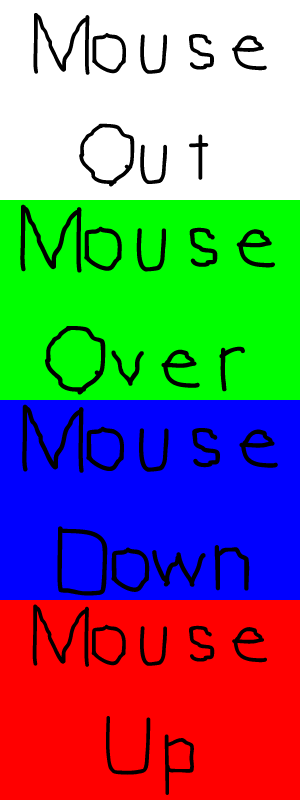
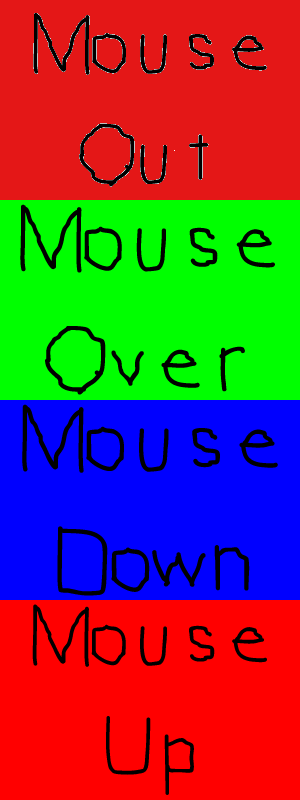
Created a grid of buttons.

Changed region(s): [[0.0, 0.0, 1.0, 0.25]]

diff --git a/Gomoku_Interface/main.cpp b/Gomoku_Interface/main.cpp
@@ -1,9 +1,11 @@
 #include <iostream>
 #include "GameWindow.h"
+#include "Texture.h"
+#include "GridSquare.h"
 #include <vector>
 
-#define GRID_WIDTH  4
-#define GRID_HEIGHT  4
+#define GRID_WIDTH  19
+#define GRID_HEIGHT  19
 #define TOTAL_BUTTONS GRID_HEIGHT*GRID_WIDTH
 
 enum ButtonSprite
@@ -52,11 +54,11 @@ int main(int argc, char* args[])
 {
 	
 	//Start up SDL and create game window
-	GameWindow gw(640, 480);
-
+	GameWindow gw(950, 950);
+	
 	//Load assets
 
-		//Button sprites
+	//Button sprites
 	
 	Texture ButtonSpriteSheet(gw);
 	try
@@ -69,22 +71,31 @@ int main(int argc, char* args[])
 		exit(-1);
 	}
 	//Mouse button sprites
-	SDL_Rect gSpriteClips[BUTTON_SPRITE_TOTAL];
+	SDL_Rect spriteClips[BUTTON_SPRITE_TOTAL];
+	
+	
 
-
+	//Select sprites in sprite sheet
 	for (int i = 0; i < BUTTON_SPRITE_TOTAL; ++i)
 	{
-		gSpriteClips[i].x = 0;
-		gSpriteClips[i].y = i * 200;
-		gSpriteClips[i].w = 200;
-		gSpriteClips[i].h = 200;
+		spriteClips[i].x = 0;
+		spriteClips[i].y = i * 200;
+		spriteClips[i].w = 300;
+		spriteClips[i].h = 200;
 	}
 
+	//All the squares in the grid
+	std::vector<GridSquare> gridSquares;
 	//Set buttons in corners
-	gButtons[0].setPosition(0, 0);
-	gButtons[1].setPosition(gw.width() - BUTTON_WIDTH, 0);
-	gButtons[2].setPosition(0, gw.height() - BUTTON_HEIGHT);
-	gButtons[3].setPosition(gw.width() - BUTTON_WIDTH, gw.height() - BUTTON_HEIGHT);
+	GridSquare gs(gw, gw.height() / GRID_HEIGHT, gw.width() / GRID_WIDTH, BUTTON_SPRITE_TOTAL, ButtonSpriteSheet,spriteClips);
+	for (int i = 0; i < GRID_HEIGHT; i++)
+	{
+		for (int j = 0; j < GRID_WIDTH; j++)
+		{
+			gs.setPosition(gs.width()*j, gs.height()*i);
+			gridSquares.push_back(gs);
+		}
+	}
 
 	//Main loop flag
 	bool quit = false;
@@ -104,25 +115,59 @@ int main(int argc, char* args[])
 				quit = true;
 			}
 
-			//Handle button events
-			for (int i = 0; i < TOTAL_BUTTONS; ++i)
+			//If mouse event happened
+			if (e.type == SDL_MOUSEMOTION || e.type == SDL_MOUSEBUTTONDOWN || e.type == SDL_MOUSEBUTTONUP)
 			{
-				gButtons[i].handleEvent(&e);
+				gw.clear();
+				//Get mouse position
+				int x, y;
+				//Get mouse and account for out of bouds
+				SDL_GetMouseState(&x, &y);
+				
+				printf("x: %d y:%d\n", x, y);
+				//Get button coordinates
+				x /= gridSquares[0].width();
+				y /= gridSquares[0].height();
+				int buttonNr = y * GRID_WIDTH + x;
+				//Set all grid squares to empty
+				for (int i = 0; i < GRID_HEIGHT*GRID_WIDTH; i++)
+				{
+					gridSquares[i].setSprite(0);
+				}
+				if(buttonNr<=360)
+					gridSquares[buttonNr].setSprite(1);
+
+				//Render the grid
+				for (int i = 0; i < GRID_HEIGHT*GRID_WIDTH; i++)
+				{
+					gridSquares[i].render(gw.width()/GRID_WIDTH,gw.height()/GRID_HEIGHT);
+				}
+				/*
+				//Mouse is inside button
+				else
+				{
+					//Set mouse over sprite
+					switch (e.type)
+					{
+					case SDL_MOUSEMOTION:
+						mCurrentSprite = BUTTON_SPRITE_MOUSE_OVER_MOTION;
+						break;
+
+					case SDL_MOUSEBUTTONDOWN:
+						mCurrentSprite = BUTTON_SPRITE_MOUSE_DOWN;
+						break;
+
+					case SDL_MOUSEBUTTONUP:
+						mCurrentSprite = BUTTON_SPRITE_MOUSE_UP;
+						break;
+					}
+				}*/
+
+				gw.update();
 			}
+
 		}
-
-		//Clear screen
-		gw.clear();
-
-		//Render buttons
-		for (int i = 0; i < TOTAL_BUTTONS; ++i)
-		{
-			gButtons[i].render();
-		}
-
-		//Update screen
-		gw.update();
 	}
-
+	
 	return 0;
 }

diff --git a/Gomoku_Interface/GridSquare.cpp b/Gomoku_Interface/GridSquare.cpp
@@ -1,7 +1,7 @@
 #include "GridSquare.h"
+#include "Texture.h"
 
-
-GridSquare::GridSquare(GameWindow &gw, const int buttonHeight, const int buttonWidth,const int nrStates) : game_window(gw), BUTTON_HEIGHT(buttonHeight), BUTTON_WIDTH(buttonWidth),TOTAL_STATES(nrStates)
+GridSquare::GridSquare(GameWindow &gw, const int buttonHeight, const int buttonWidth,const int nrStates,Texture &spriteSheet, SDL_Rect *spriteClips) : game_window(gw), BUTTON_HEIGHT(buttonHeight), BUTTON_WIDTH(buttonWidth),TOTAL_STATES(nrStates),gridsprite(spriteSheet),spriteClips(spriteClips)
 {
 	privPosition.x=0;
 	privPosition.y = 0;
@@ -14,68 +14,24 @@ void GridSquare::setPosition(int x, int y)
 	privPosition.y = y;
 }
 
-void GridSquare::handleEvent(SDL_Event* e)
+int GridSquare::width()
 {
-	//If mouse event happened
-	if (e->type == SDL_MOUSEMOTION || e->type == SDL_MOUSEBUTTONDOWN || e->type == SDL_MOUSEBUTTONUP)
-	{
-		//Get mouse position
-		int x, y;
-		SDL_GetMouseState(&x, &y);
-
-		//Check if mouse is in button
-		bool inside = true;
-
-		//Mouse is left of the button
-		if (x < privPosition.x)
-		{
-			inside = false;
-		}
-		//Mouse is right of the button
-		else if (x > privPosition.x + BUTTON_WIDTH)
-		{
-			inside = false;
-		}
-		//Mouse above the button
-		else if (y < privPosition.y)
-		{
-			inside = false;
-		}
-		//Mouse below the button
-		else if (y > privPosition.y + BUTTON_HEIGHT)
-		{
-			inside = false;
-		}
-
-		//Mouse is outside button
-		if (!inside)
-		{
-			privCurrentSprite = BUTTON_SPRITE_MOUSE_OUT;
-		}
-		//Mouse is inside button
-		else
-		{
-			//Set mouse over sprite
-			switch (e->type)
-			{
-			case SDL_MOUSEMOTION:
-				mCurrentSprite = BUTTON_SPRITE_MOUSE_OVER_MOTION;
-				break;
-
-			case SDL_MOUSEBUTTONDOWN:
-				mCurrentSprite = BUTTON_SPRITE_MOUSE_DOWN;
-				break;
-
-			case SDL_MOUSEBUTTONUP:
-				mCurrentSprite = BUTTON_SPRITE_MOUSE_UP;
-				break;
-			}
-		}
-	}
+	return BUTTON_WIDTH;
 }
 
-void GridSquare::render()
+int GridSquare::height()
+{
+	return BUTTON_HEIGHT;
+}
+
+void GridSquare::setSprite(int n)
+{
+	if(n<TOTAL_STATES)
+		privCurrentSprite = n;
+}
+
+void GridSquare::render(int width,int height)
 {
 	//Show current button sprite
-	//gButtonSpriteSheetTexture.render(mPosition.x, mPosition.y, &gSpriteClips[mCurrentSprite]);
+	gridsprite.render(privPosition.x, privPosition.y, &(spriteClips[privCurrentSprite]),width,height);
 }

diff --git a/Gomoku_Interface/Texture.cpp b/Gomoku_Interface/Texture.cpp
@@ -32,7 +32,11 @@ bool Texture::loadFromFile(std::string path)
 	else
 	{
 		//Color key image
-		SDL_SetColorKey(loadedSurface, SDL_TRUE, SDL_MapRGB(loadedSurface->format, 0, 0xFF, 0xFF));
+		//SDL_SetColorKey(loadedSurface, SDL_TRUE, SDL_MapRGB(loadedSurface->format, 0, 0xFF, 0xFF));
+
+		//Scale image to dimensions
+		
+		//SDL_BlitScaled(gStretchedSurface, NULL, gScreenSurface, &stretchRect);
 
 		//Create texture from surface pixels
 		newTexture = SDL_CreateTextureFromSurface(gameWindow.renderer(), loadedSurface);
@@ -122,7 +126,7 @@ void Texture::setAlpha(Uint8 alpha)
 	SDL_SetTextureAlphaMod(mTexture, alpha);
 }
 
-void Texture::render(int x, int y, SDL_Rect* clip, double angle, SDL_Point* center, SDL_RendererFlip flip)
+void Texture::render(int x, int y, SDL_Rect* clip,int width,int height)
 {
 	//Set rendering space and render to screen
 	SDL_Rect renderQuad = { x, y, privWidth, privHeight };
@@ -130,12 +134,12 @@ void Texture::render(int x, int y, SDL_Rect* clip, double angle, SDL_Point* cent
 	//Set clip rendering dimensions
 	if (clip != NULL)
 	{
-		renderQuad.w = clip->w;
-		renderQuad.h = clip->h;
+		renderQuad.w = width;
+		renderQuad.h = height;
 	}
 
 	//Render to screen
-	SDL_RenderCopyEx(gameWindow.renderer(), mTexture, clip, &renderQuad, angle, center, flip);
+	SDL_RenderCopyEx(gameWindow.renderer(), mTexture, clip, &renderQuad, 0.0, NULL, SDL_FLIP_NONE);
 }
 
 int Texture::getWidth()

diff --git a/Gomoku_Interface/GridSquare.h b/Gomoku_Interface/GridSquare.h
@@ -4,6 +4,8 @@
 #include <stdio.h>
 #include <string>
 #include "GameWindow.h"
+#include "Texture.h"
+
 //The mouse button
 class GridSquare
 {
@@ -11,7 +13,6 @@ class GridSquare
 	//Button constants
 	const int BUTTON_WIDTH;
 	const int BUTTON_HEIGHT;
-	const int TOTAL_BUTTONS=4;
 	const int TOTAL_STATES;
 
 	//Top left position
@@ -23,21 +24,27 @@ class GridSquare
 	//Reference to game window
 	GameWindow &game_window;
 
-	//REference to sprite texture
+	//Reference to sprite texture
 	Texture & gridsprite;
+
+	//Reference to sprite rect
+	SDL_Rect *spriteClips;
 
 public:
 	//Initializes internal variables
-	GridSquare(GameWindow& gw,const int buttonHeight,const int buttonWidth,const int nrStates);
+	GridSquare(GameWindow& gw,const int buttonHeight,const int buttonWidth,const int nrStates,Texture &spriteSheet, SDL_Rect *spriteClips);
 
 	//Sets top left position
 	void setPosition(int x, int y);
 
-	//Handles mouse event
-	void handleEvent(SDL_Event* e);
+	int width();
+	int height();
+
+	//Modify shown sprite
+	void setSprite(int n);
 
 	//Shows button sprite
-	void render();
+	void render(int width,int height);
 
 
 };

diff --git a/Gomoku_Interface/GameWindow.cpp b/Gomoku_Interface/GameWindow.cpp
@@ -30,7 +30,7 @@ GameWindow::GameWindow(int screen_width,int screen_height): SCREEN_HEIGHT(screen
 		{
 			//Create vsynced renderer for window
 			privRenderer = SDL_CreateRenderer(privWindow, -1, SDL_RENDERER_ACCELERATED | SDL_RENDERER_PRESENTVSYNC);
-			if (renderer == NULL)
+			if (privRenderer == NULL)
 			{
 				printf("Renderer could not be created! SDL Error: %s\n", SDL_GetError());
 				success = false;

diff --git a/Gomoku_Interface/GameWindow.h b/Gomoku_Interface/GameWindow.h
@@ -4,8 +4,6 @@
 #include <stdio.h>
 #include <string>
 #include <exception>
-#include "Texture.h"
-#include "GridSquare.h"
 
 class GameWindow
 {
@@ -15,7 +13,9 @@ class GameWindow
 	//The window renderer
 	SDL_Renderer* privRenderer;
 
+	//Width and height of game window
 	const int SCREEN_WIDTH, SCREEN_HEIGHT;
+
 
 	GameWindow(GameWindow &gw):SCREEN_HEIGHT(0),SCREEN_WIDTH(0) {};
 

diff --git a/Gomoku_Interface/Texture.h b/Gomoku_Interface/Texture.h
@@ -46,7 +46,7 @@ public:
 	void setAlpha(Uint8 alpha);
 
 	//Renders texture at given point
-	void render(int x, int y, SDL_Rect* clip = NULL, double angle = 0.0, SDL_Point* center = NULL, SDL_RendererFlip flip = SDL_FLIP_NONE);
+	void render(int x, int y, SDL_Rect* clip = NULL,int width=0,int height=0);
 
 	//Gets image dimensions
 	int getWidth();
